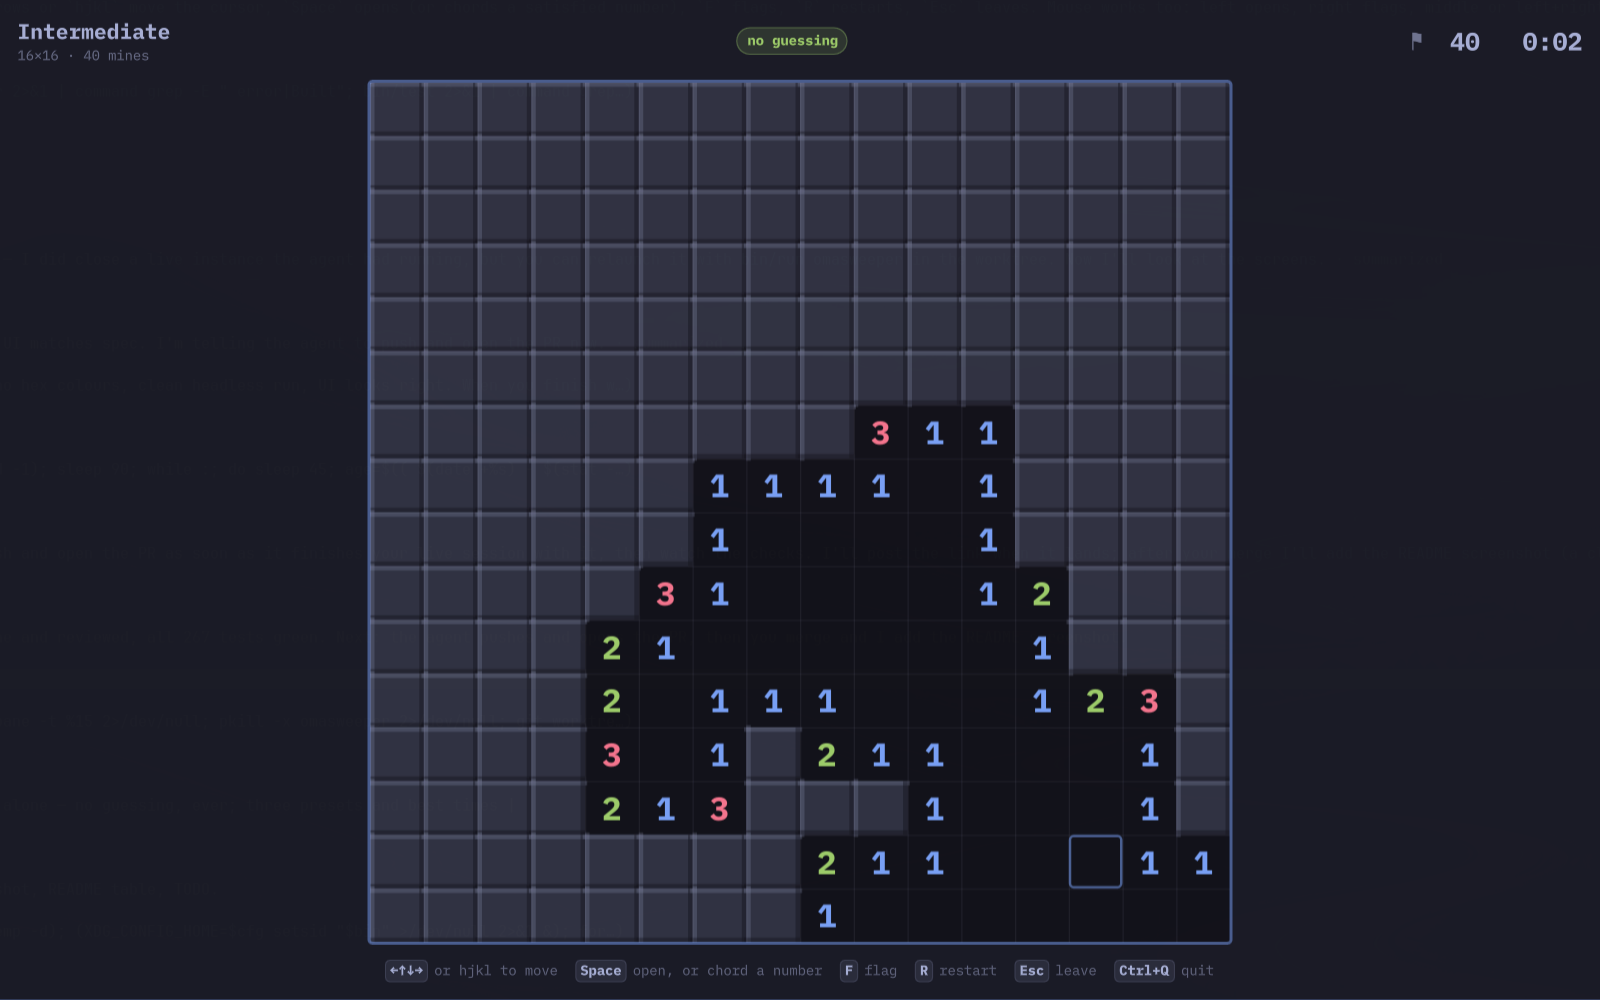
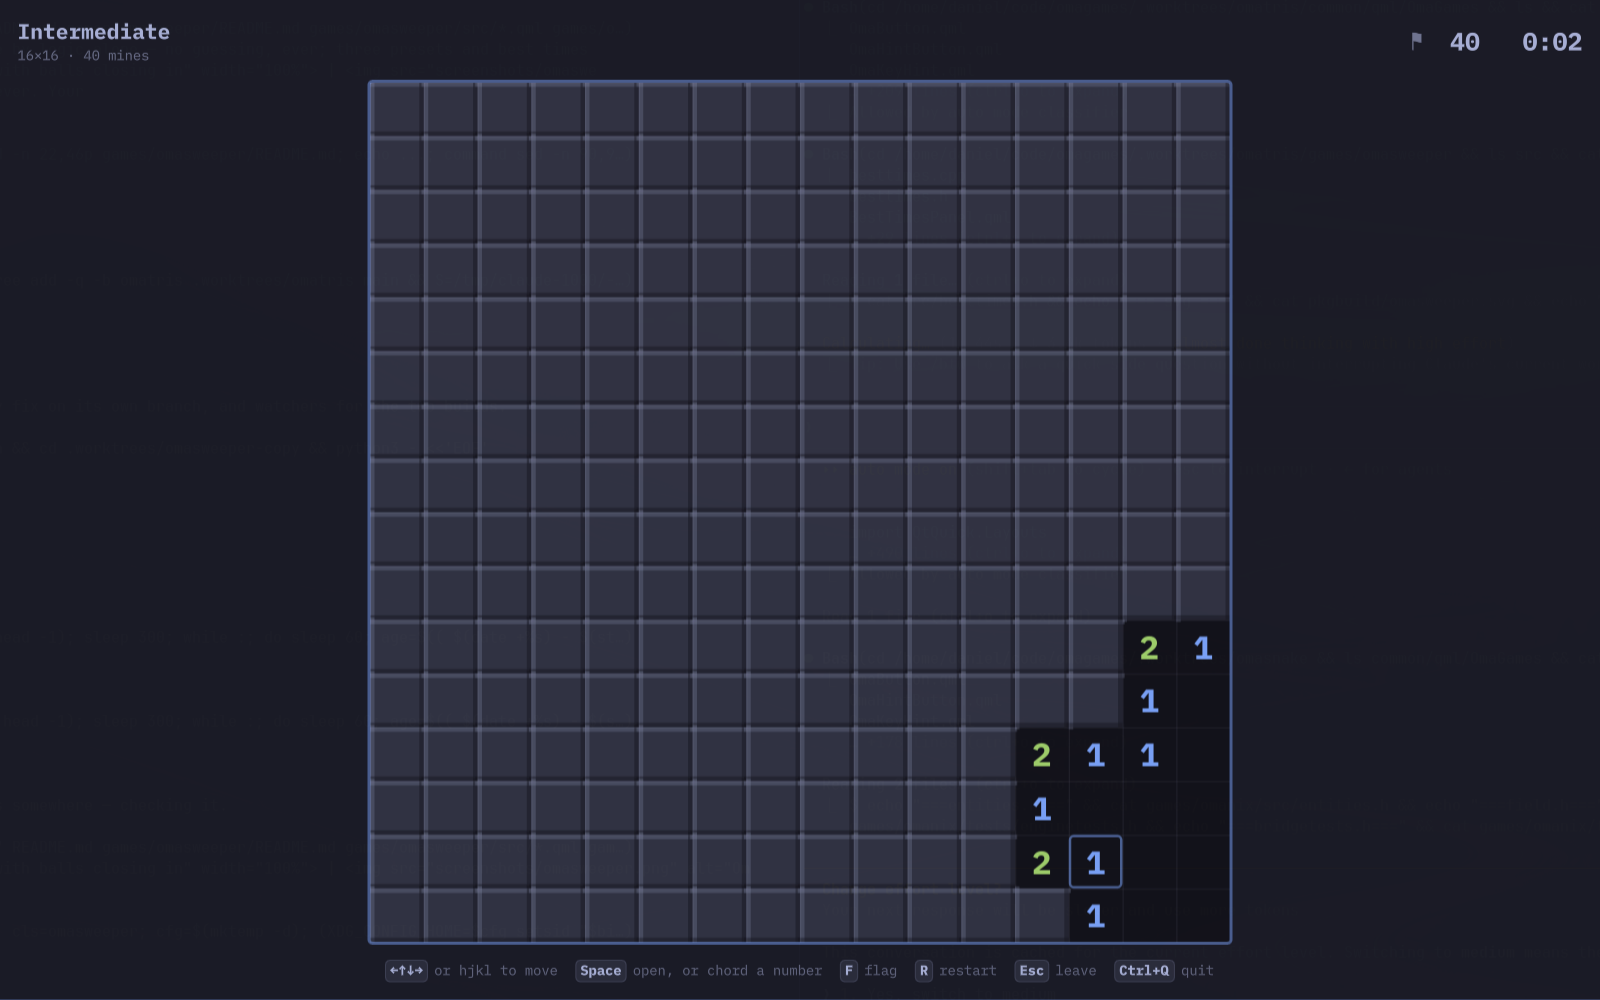
omasweeper: screenshot and alt text without the badge

Changed region(s): [[0.3438, 0.403, 0.7812, 0.961], [0.4375, 0.0, 0.5312, 0.062]]

diff --git a/README.md b/README.md
@@ -22,7 +22,7 @@ Each game has its own README with rules and keyboard shortcuts.
 
 | Omanix | Omasweeper |
 |---|---|
-| <img src="screenshots/omanix.png" alt="Omanix, cutting a trail across the sea with balls closing in" width="100%"> | <img src="screenshots/omasweeper.png" alt="Omasweeper, an Intermediate board opening up with the no-guessing badge" width="100%"> |
+| <img src="screenshots/omanix.png" alt="Omanix, cutting a trail across the sea with balls closing in" width="100%"> | <img src="screenshots/omasweeper.png" alt="Omasweeper, an Intermediate board opening up" width="100%"> |
 
 This is a monorepo: games live under `games/`, everything shared (theming,
 fonts, app bootstrap, common QML controls) lives under `common/` and is compiled
